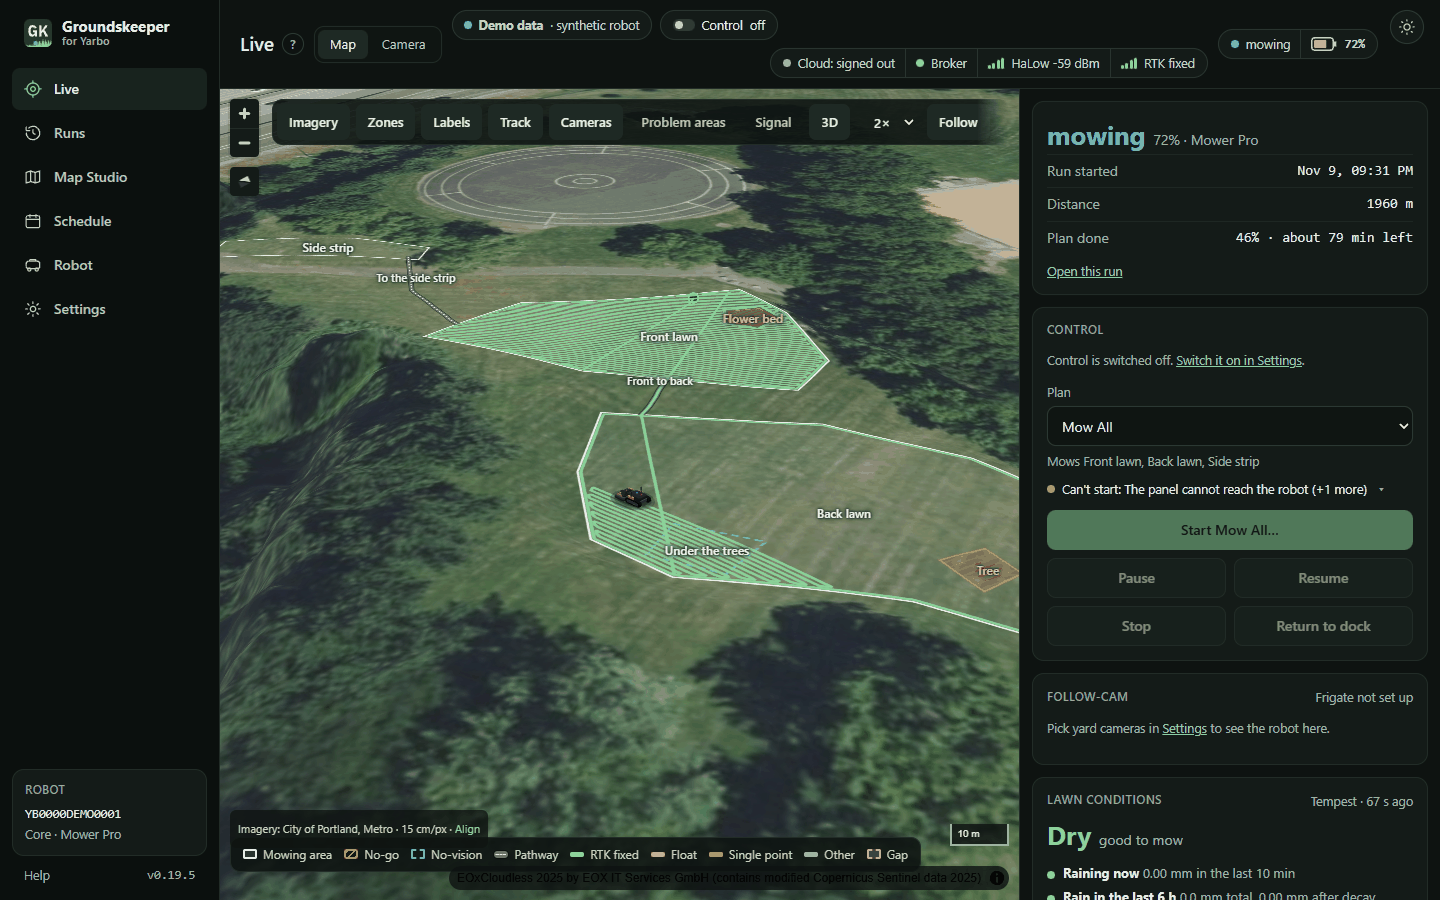
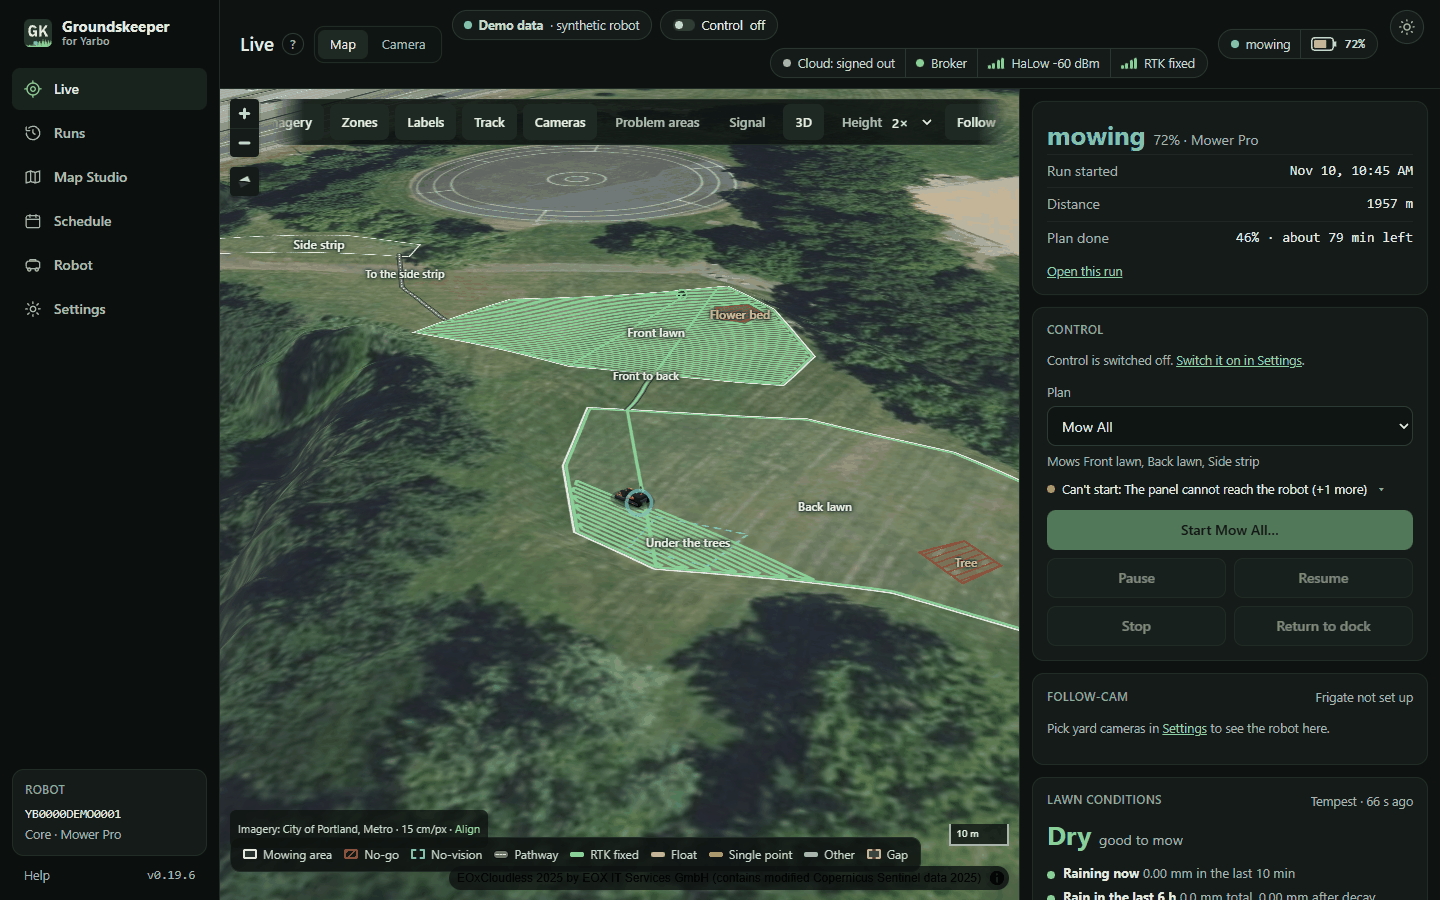
Label the 3D menu Height and the replay menu Speed
The 3D map's 1x-3x menu draws the ground taller; on screen it was only
"1x...3x" and read as a speed control. It now says Height, like Colour
next to it, and the replay menu in Runs says Speed. On a phone the Speed
menu wraps under Play so the slider keeps its width.

diff --git a/web/app.js b/web/app.js
@@ -1622,12 +1622,14 @@ function runDetail() {
       playButton(),
       h("input", { type: "range", id: "scrub", min: "0", max: String(Math.max(0, rows.length - 1)), value: String(state.replayIndex),
                    "aria-label": "Replay position", oninput: (e) => { state.replayOn = true; state.replayT = null; setReplay(Number(e.target.value)); } }),
-      h("select", { id: "replayspeed", class: "field slim", "aria-label": "Replay speed",
-                    title: "Replay speed, times real time. Stretches where the robot stands still go by quickly. Whole run plays it in about 30 s.",
-                    onchange: (e) => { state.replaySpeed = Number(e.target.value); writePref("replaySpeed", state.replaySpeed);
-                                       if (state.replayTimer) { stopPlay(); togglePlay(); } } },
-        [[1, "1×"], [10, "10×"], [60, "60×"], [300, "300×"], [0, "Whole run"]].map(([v, t]) =>
-          h("option", { value: String(v), selected: v === state.replaySpeed || null }, t)))),
+      h("label", { class: "replayspeed",
+                    title: "Replay speed, times real time. Stretches where the robot stands still go by quickly. Whole run plays it in about 30 s." },
+        "Speed",
+        h("select", { id: "replayspeed", class: "field slim", "aria-label": "Replay speed",
+                      onchange: (e) => { state.replaySpeed = Number(e.target.value); writePref("replaySpeed", state.replaySpeed);
+                                         if (state.replayTimer) { stopPlay(); togglePlay(); } } },
+          [[1, "1×"], [10, "10×"], [60, "60×"], [300, "300×"], [0, "Whole run"]].map(([v, t]) =>
+            h("option", { value: String(v), selected: v === state.replaySpeed || null }, t))))),
     h("p", { class: "mono small", id: "replayinfo" }, replayText(replay, idx)),
     areas.length ? h("div", null, h("p", { class: "label", style: "margin-top:10px" }, "Coverage by area"),
       areas.map((a) => kv(a.name, `${num(a.coverage_pct_of_known)}% · ${num(a.covered_m2)} m² · gaps ${num(a.gap_m2, 1)} m²`)),

diff --git a/web/index.html b/web/index.html
@@ -62,7 +62,7 @@
           <button type="button" class="tool" data-layer="trouble" aria-pressed="false" data-studio-hide title="Where the robot gets stuck, errors, steep ground and weak positioning, from recorded runs">Problem areas</button>
           <button type="button" class="tool" data-layer="signal" aria-pressed="false" data-studio-hide title="Signal across the yard, from every recorded run">Signal</button>
           <button type="button" class="tool" id="ground3d" aria-pressed="false" data-studio-hide title="Tilt the map and raise the ground: the robot's own heights over the lawns, public lidar (USGS 3DEP) around them. Right-drag (two fingers on a phone) turns and tilts.">3D</button>
-          <label class="tool toolsel" id="ground3dx" data-studio-hide hidden title="How much taller the ground is drawn than it is"><select id="ground3dsel" aria-label="Draw the ground this much taller"><option value="1">1×</option><option value="1.5">1.5×</option><option value="2">2×</option><option value="3">3×</option></select></label>
+          <label class="tool toolsel" id="ground3dx" data-studio-hide hidden title="How much taller the ground is drawn than it is">Height <select id="ground3dsel" aria-label="Draw the ground this much taller"><option value="1">1×</option><option value="1.5">1.5×</option><option value="2">2×</option><option value="3">3×</option></select></label>
           <button type="button" class="tool" id="follow3d" aria-pressed="false" data-studio-hide hidden title="Follow the robot from behind and to one side. Right-drag (two fingers on a phone) moves the camera round it; a drag or Fit yard lets go.">Follow</button>
           <label class="tool toolsel" data-studio-hide title="What the track's colour shows">Colour <select id="trackmetric" aria-label="Colour the track by"></select></label>
           <button type="button" class="tool" id="recenter">Fit yard</button>

diff --git a/web/style.css b/web/style.css
@@ -250,9 +250,10 @@ a { color: var(--link); }
 .legendrow span { display: inline-flex; align-items: center; gap: 6px; }
 .legendrow i { display: inline-block; width: 14px; height: 5px; border-radius: 2px; }
 .legendrow i.ramp { width: 90px; height: 7px; }
-.replay { display: flex; align-items: center; gap: 10px; }
-.replay input { flex: 1; min-width: 0; accent-color: var(--ok); }
-.replay select { flex: none; width: auto; }
+.replay { display: flex; flex-wrap: wrap; align-items: center; gap: 10px; }
+.replay input { flex: 1 1 80px; min-width: 0; accent-color: var(--ok); }
+.replayspeed { flex: none; display: inline-flex; align-items: center; gap: 6px; color: var(--text2); font-size: 13px; }
+.replayspeed select { width: auto; }
 .gaplist { list-style: none; margin: 0; padding: 0; display: flex; flex-direction: column; gap: 6px; font-size: 13px; }
 .gaplist li { display: flex; align-items: center; gap: 10px; }
 .runlist .label { margin: 8px 4px; }

diff --git a/docs/user/live.md b/docs/user/live.md
@@ -41,7 +41,7 @@ are pink, edge passes violet.
   Esc to close it). **Align**, next to the imagery credit at the foot of the map, lines the aerial photo up with the
   robot's map (also in [Settings → Map imagery](#settings/imagery)).
 - **3D:** tilts the map and raises the ground: the robot's own heights over the lawns (they sharpen with every mow),
-  public lidar elevation (USGS 3DEP) around them. The **1× to 3×** menu next to it draws it taller so small slopes show. Right-drag, or two fingers on
+  public lidar elevation (USGS 3DEP) around them. The **Height** menu next to it (1× to 3×) draws it taller so small slopes show. Right-drag, or two fingers on
   a phone, turns and tilts; the compass resets north. The same view works in Runs, for replay. In 3D the robot is a
   small 3D model of a Yarbo with the Lawn Mower Pro: it faces where it is heading, leans with its own tilt, stands on
   a soft shadow and glides between updates instead of jumping. The mower in front follows the drawn ground under it

diff --git a/CHANGELOG.md b/CHANGELOG.md
@@ -20,7 +20,8 @@ robot card. Before 0.9.0 the panel had no version numbers; those changes are lis
   turns the password off once it works. See Help → Settings → Signing in.
 - **Replay speed.** Next to the replay slider in Runs: 1×, 10×, 60× or 300× real time, or Whole run (about 30 s, as
   before). Where the robot stands still (parked, charging) or the samples stop, the replay hurries through, and between
-  samples the robot moves smoothly, so a replay, and Follow in 3D, can be watched at a real pace.
+  samples the robot moves smoothly, so a replay, and Follow in 3D, can be watched at a real pace. The 3D map's 1×–3×
+  menu is now labelled Height: it draws the ground taller, it is not a speed.
 
 ## 0.19.6 — 2026-11-09
 

diff --git a/docs/user/runs.md b/docs/user/runs.md
@@ -11,7 +11,7 @@ coming back across mows. Trends need two mows or more.
 ## A run
 
 Open a run for its stats (duration, distance, RTK share, coverage, gaps, battery and energy per 100 m²), replay
-with a scrubber (Play draws the track as it goes; the speed menu next to it runs 1× to 300× real time, hurrying
+with a scrubber (Play draws the track as it goes; the Speed menu next to it runs 1× to 300× real time, hurrying
 through stretches where the robot stood still, or the whole run in about 30 s), coverage by area, and:
 
 - **Duration** is working time: a pause or a charging stop mid-plan is not counted, so a mow paused overnight and
